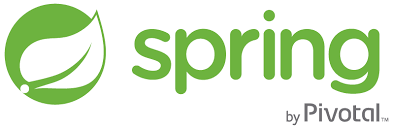
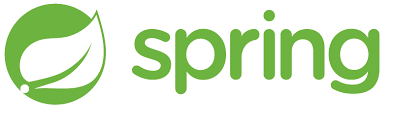
Spring branding updates

Changed region(s): [[0.7005, 0.7812, 1.0, 0.9688]]

diff --git a/docs/_guides/spring-framework.md b/docs/_guides/spring-framework.md
@@ -1,6 +1,6 @@
 ---
 layout: guides
-title: Pivotal Spring Framework v4 and v5
+title: Spring Framework v4 and v5
 summary: The Spring Framework provides a comprehensive programming and configuration model for modern Java-based enterprise applications - on any kind of deployment platform. A key element of Spring is infrastructural support at the application level.
 icon: spring-framework.png
 links:
